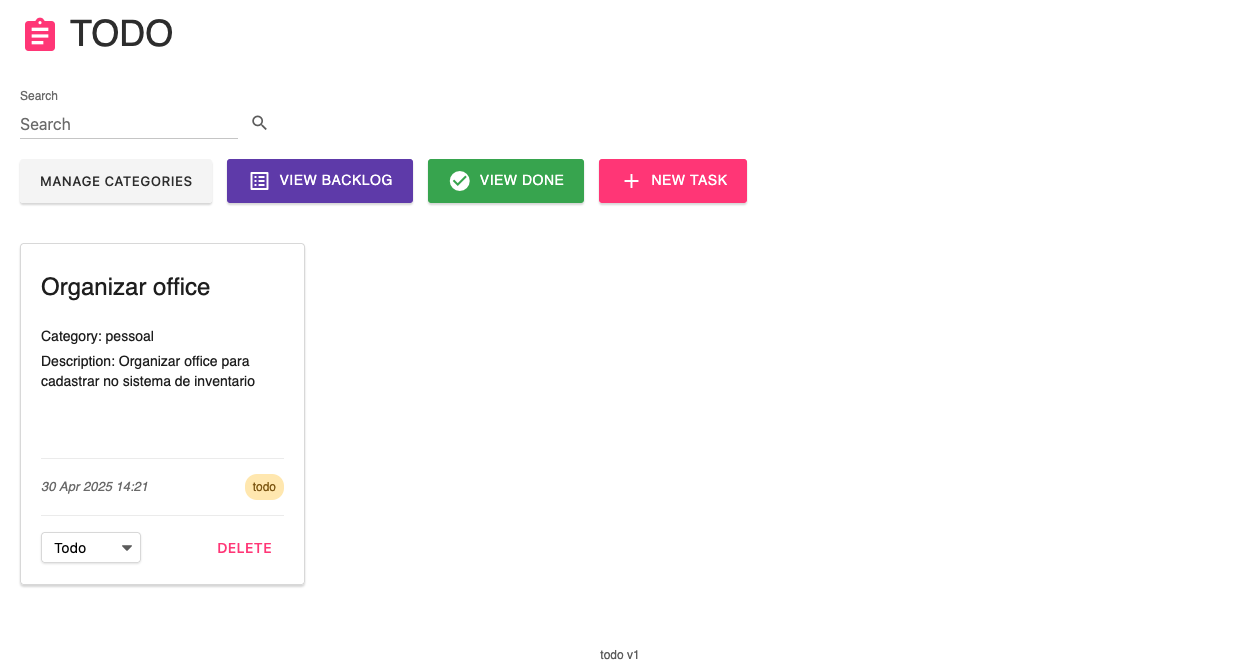
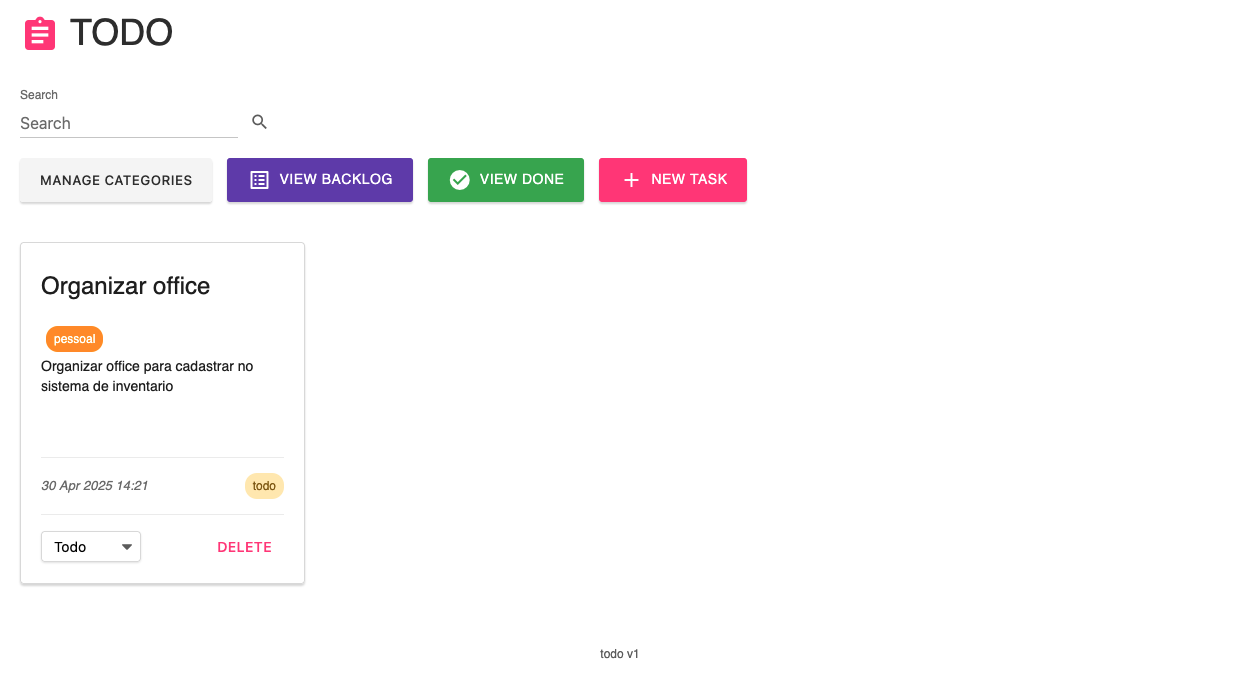
fix

diff --git a/templates/backlog.html b/templates/backlog.html
@@ -42,9 +42,10 @@
   <div class="task-card">
     <div class="task-content">
       <h2 class="task-title">{{.Title}}</h2>
-      
-      <div class="task-info"><span class="task-info-label">Category:</span> {{.Category}}</div>
-      <div class="task-info"><span class="task-info-label">Description:</span> {{.Description}}</div>
+      <div class="task-info">
+        <span class="category-badge">{{.Category}}</span>
+      </div>
+      <div class="task-info">{{.Description}}</div>
     </div>
     
     <div class="task-meta">

diff --git a/templates/done.html b/templates/done.html
@@ -42,9 +42,10 @@
   <div class="task-card">
     <div class="task-content">
       <h2 class="task-title">{{.Title}}</h2>
-      
-      <div class="task-info"><span class="task-info-label">Category:</span> {{.Category}}</div>
-      <div class="task-info"><span class="task-info-label">Description:</span> {{.Description}}</div>
+      <div class="task-info">
+        <span class="category-badge">{{.Category}}</span>
+      </div>
+      <div class="task-info">{{.Description}}</div>
     </div>
     
     <div class="task-meta">

diff --git a/templates/index.html b/templates/index.html
@@ -43,9 +43,10 @@
   <div class="task-card">
     <div class="task-content">
       <h2 class="task-title">{{.Title}}</h2>
-      
-      <div class="task-info"><span class="task-info-label">Category:</span> {{.Category}}</div>
-      <div class="task-info"><span class="task-info-label">Description:</span> {{.Description}}</div>
+      <div class="task-info">
+        <span class="category-badge">{{.Category}}</span>
+      </div>
+      <div class="task-info">{{.Description}}</div>
     </div>
     
     <div class="task-meta">

diff --git a/templates/add-task.html b/templates/add-task.html
@@ -7,13 +7,11 @@
     <span class="logo-text">Add New Task</span>
   </div>
 </div>
-
 <div class="button-container">
   <a href="/" class="main-btn">
     <i class="material-icons">arrow_back</i> BACK TO MAIN LIST
   </a>
 </div>
-
 <div class="add-task-container">
   <form action="/add-task" method="POST">
     <div class="form-row">

diff --git a/static/style.css b/static/style.css
@@ -382,6 +382,15 @@ body {
 .done-badge {
   background-color: #4CAF50;
 }
+.category-badge {
+  background-color: #FF9800;
+  padding: 3px 8px;
+  border-radius: 12px;
+  font-size: 12px;
+  display: inline-block;
+  color: #fff;
+  margin-left: 5px;
+}
 
 /* Categories specific styles */
 .category-form {
